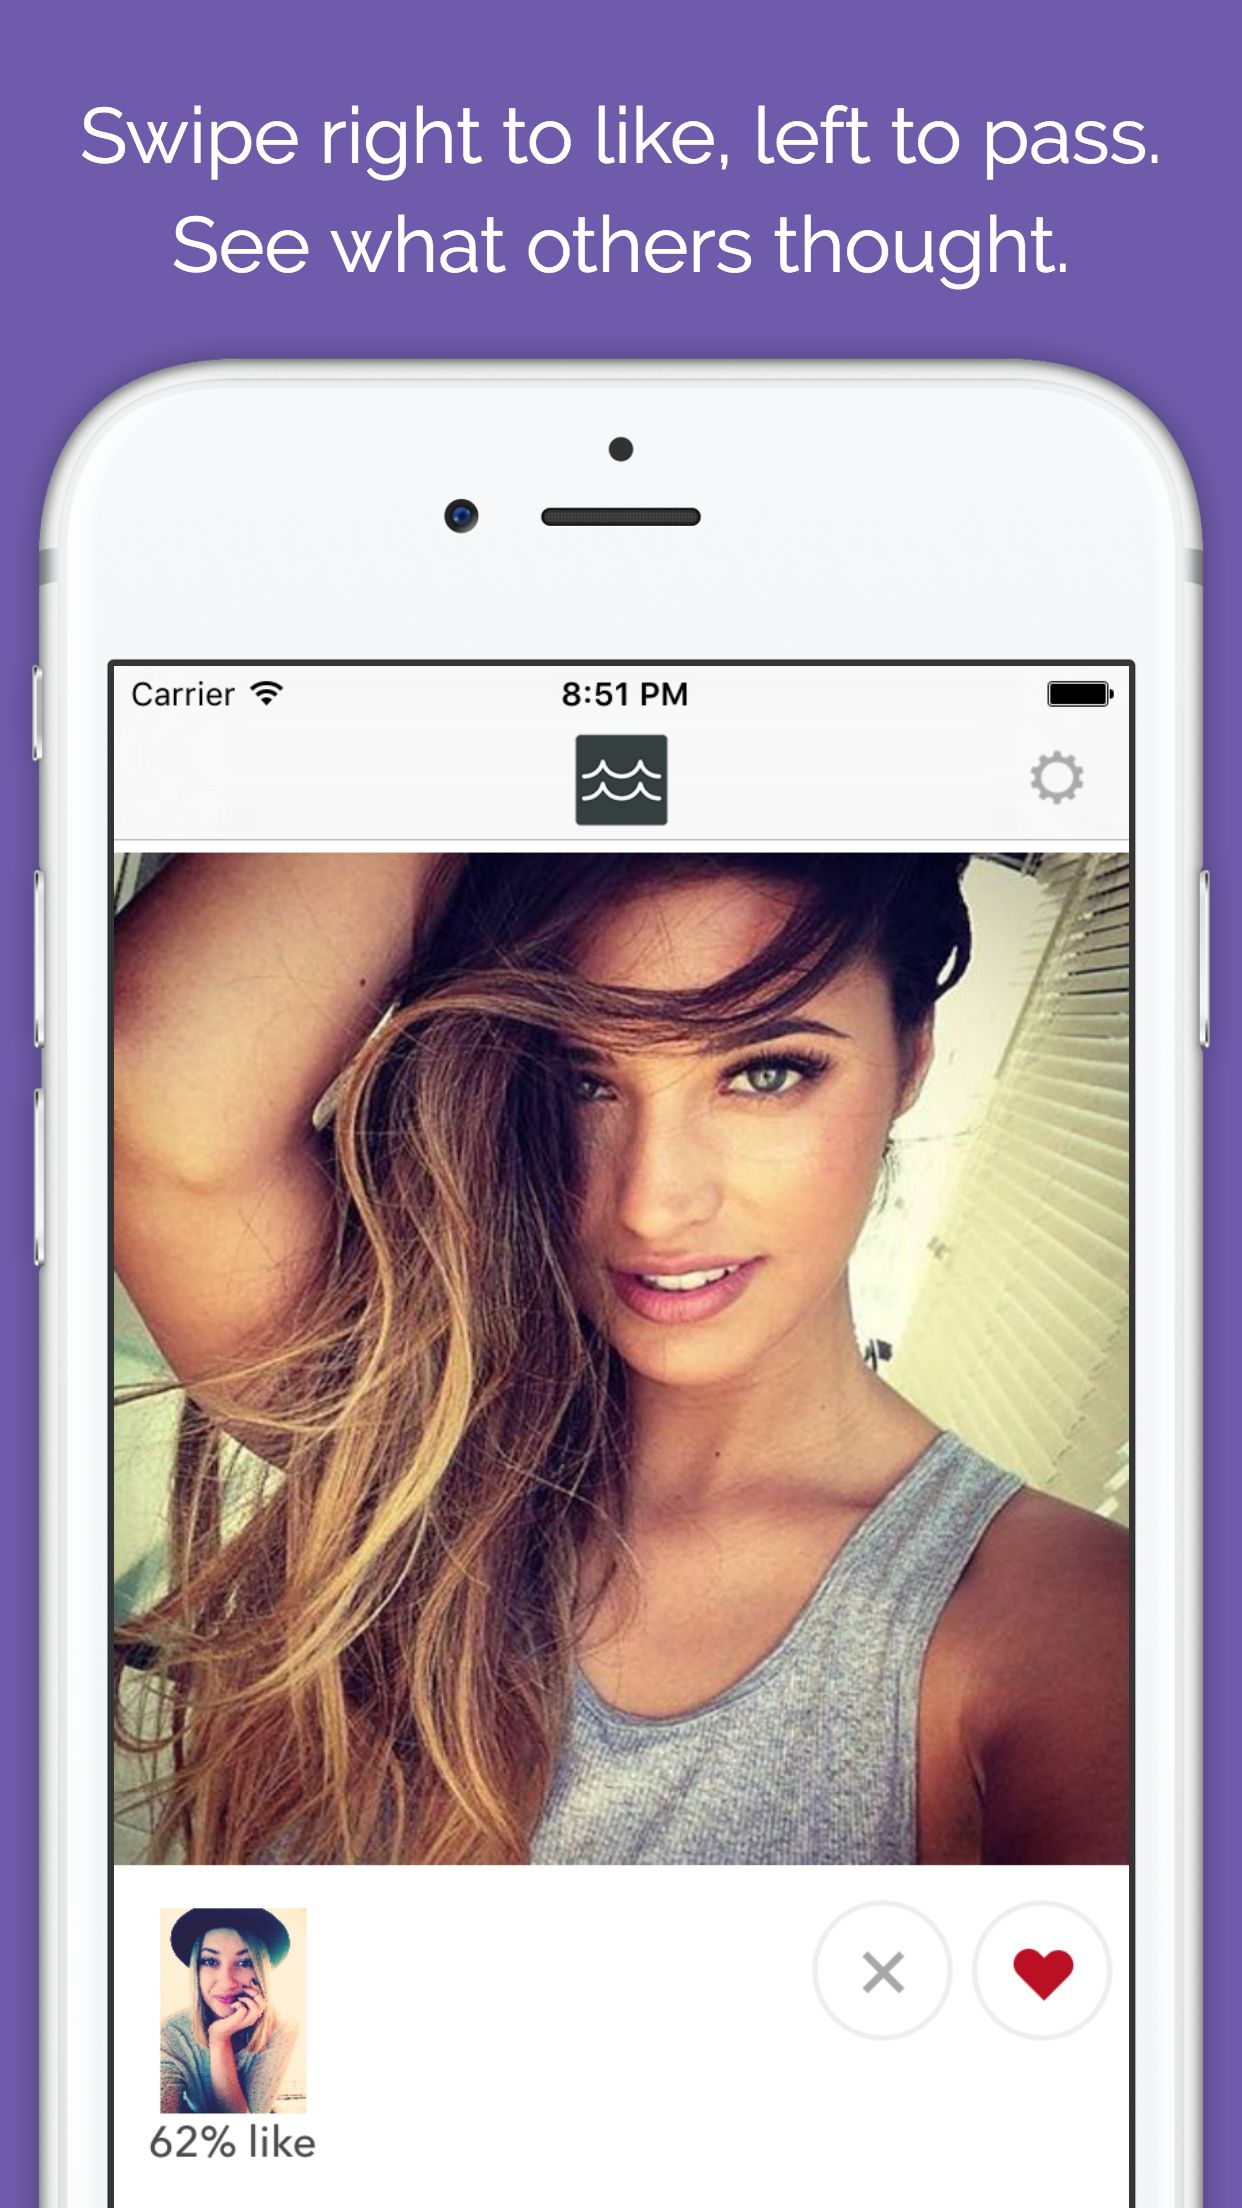
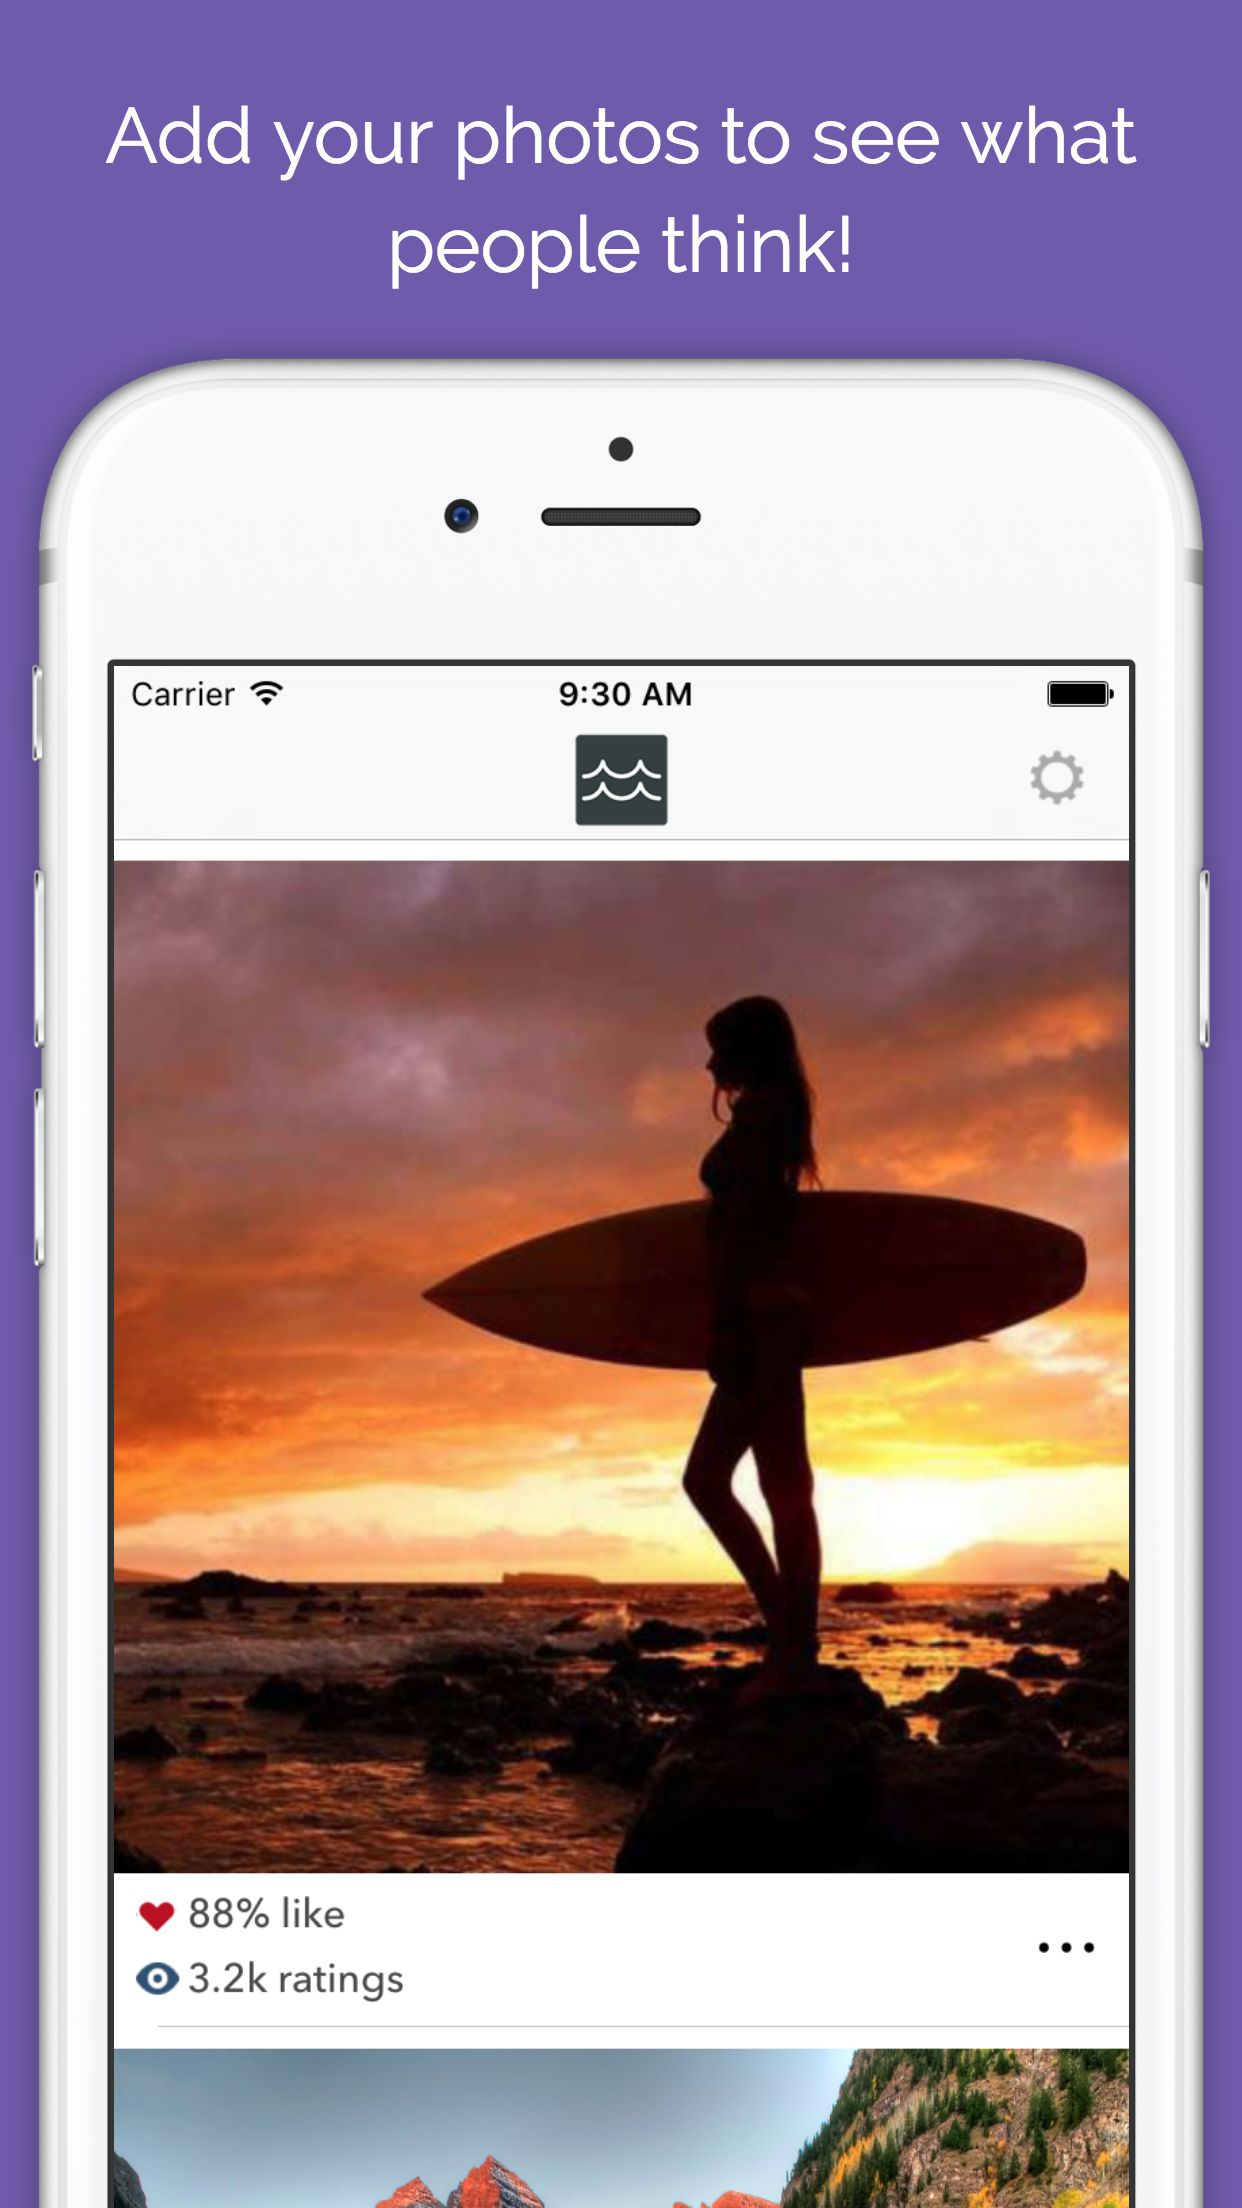
Update heatwave page.

diff --git a/heatwave.html b/heatwave.html
@@ -32,7 +32,8 @@
         <div class="col-md-6 col-lg-5 col-lg-offset-2 banner">
           <h1>Heatwave</h1>
           <p class="lead">
-            How do you look? Rate people by swiping left or right.
+            A fun way to browse and rate photos.<br/> 
+            Upload your photos to see what people think!
           </p>
           <p class="lead">
             <img src="/images/appstore.svg"/>
